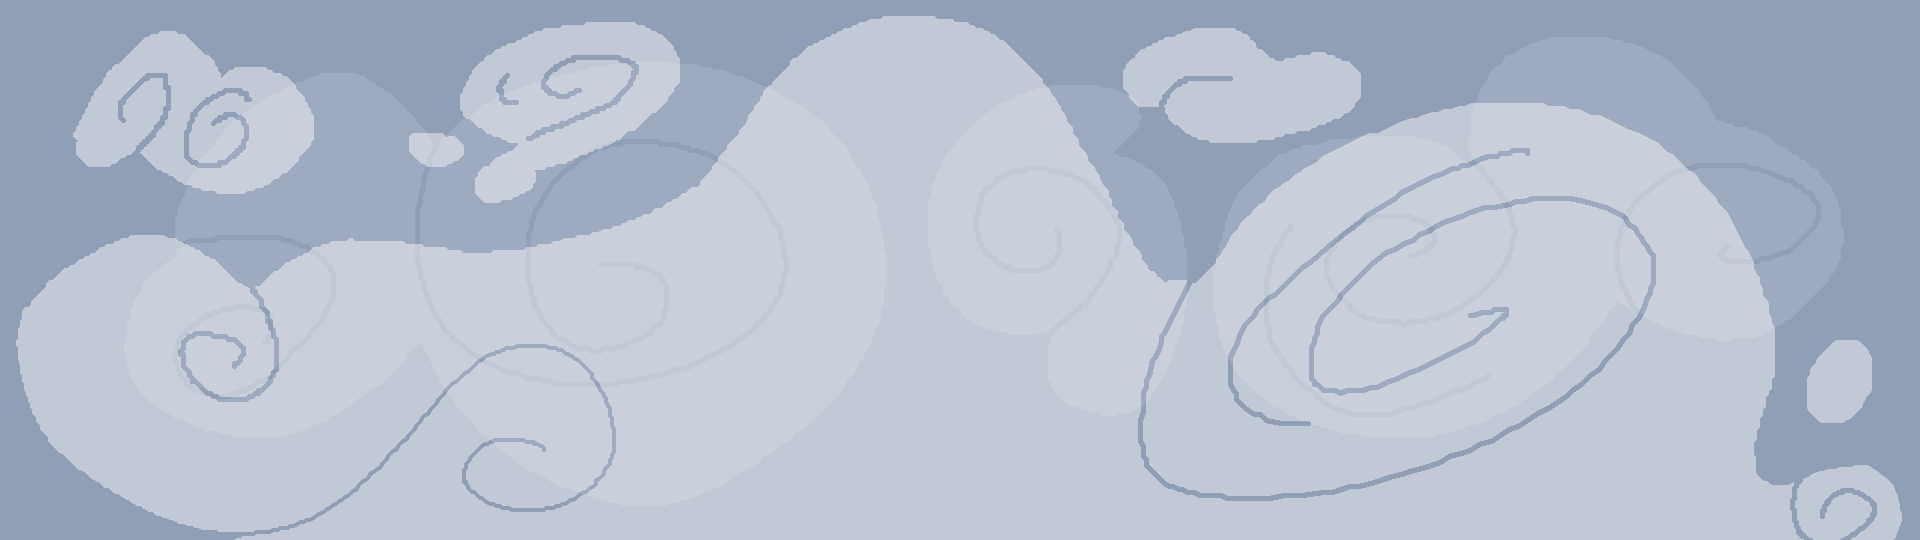
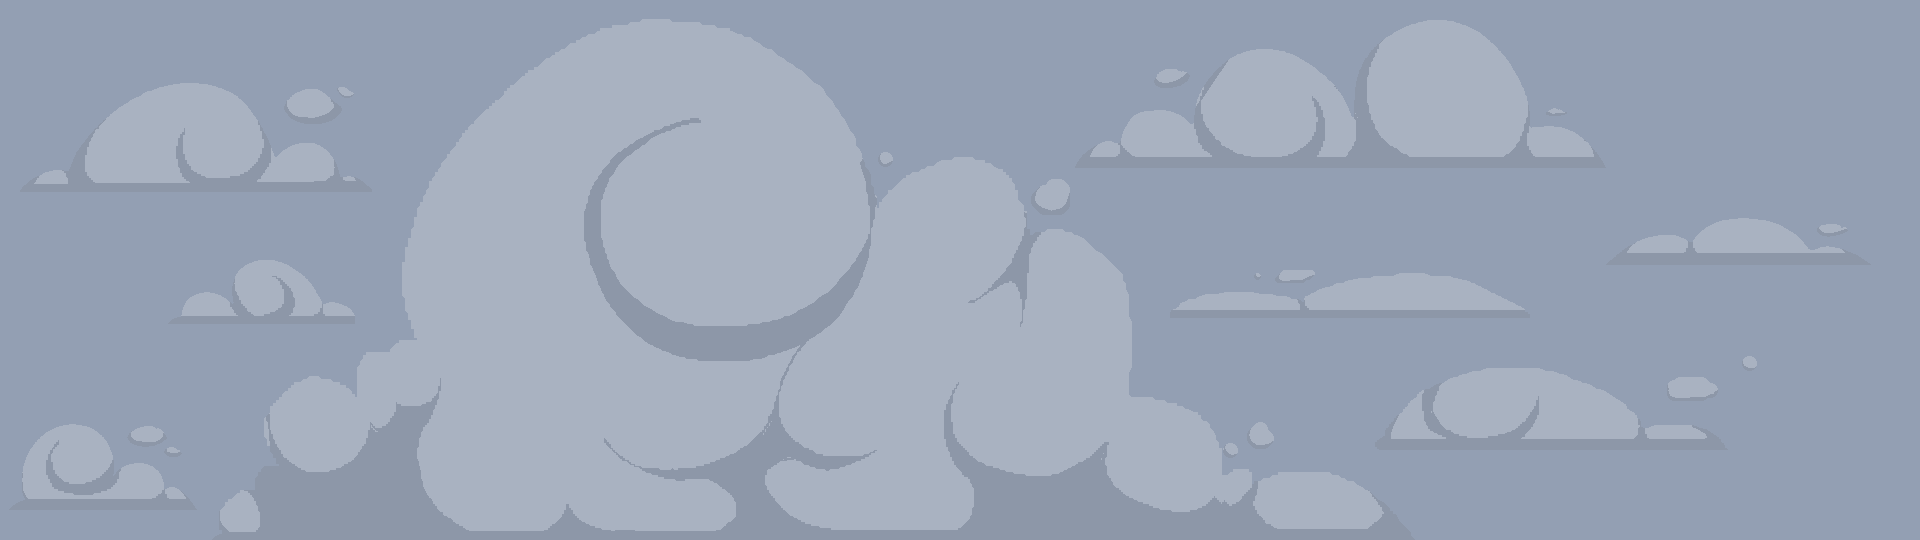
adding city background

diff --git a/src/scenes/Play1.js b/src/scenes/Play1.js
@@ -5,9 +5,12 @@ class Play1 extends Phaser.Scene {
 
     preload(){
         //load images
-        this.load.spritesheet('runner', './assets/runsheet.png', {frameWidth: 32, frameHeight: 48, startFrame: 0});
+        this.load.spritesheet('runner', './assets/run_boy.png', {frameWidth: 32, frameHeight: 48, startFrame: 0});
         this.load.image('dirt', './assets/dirt_tile.png');
         this.load.image('background', './assets/first.png');
+        this.load.image('city1', './assets/city1.png');
+        this.load.image('city2', './assets/city2.png');
+        this.load.image('city3', './assets/city3.png');
     }
 
     create(){
@@ -21,6 +24,9 @@ class Play1 extends Phaser.Scene {
 
         //tile sprite
         this.background = this.add.tileSprite(0, 0, 960, 540, 'background').setOrigin(0, 0);
+        this.third = this.add.tileSprite(0, 0, 960, 540, 'city3').setOrigin(0, 0);
+        this.second = this.add.tileSprite(0, 0, 960, 540, 'city2').setOrigin(0, 0);
+        this.first = this.add.tileSprite(0, 0, 960, 540, 'city1').setOrigin(0, 0);
 
         // make ground tiles group
         this.ground = this.add.group();
@@ -45,7 +51,7 @@ class Play1 extends Phaser.Scene {
                 start: 0,
                 end: 3,
             }),
-            frameRate: 20,
+            frameRate: 10,
             repeat: -1
         });
         this.anims.create({
@@ -76,7 +82,10 @@ class Play1 extends Phaser.Scene {
     }
 
     update(){
-        this.background.tilePositionX -= 0.5;
+        this.background.tilePositionX += 0.1;
+        this.third.tilePositionX += 0.2;
+        this.second.tilePositionX += 0.25;
+        this.first.tilePositionX += 0.3;
         this.groundScroll.tilePositionX += 3;
 
         // check keyboard input

diff --git a/src/scenes/Menu.js b/src/scenes/Menu.js
@@ -5,7 +5,7 @@ class Menu extends Phaser.Scene {
 
     preload(){
         //load images
-        this.load.image('clouds', './assets/tile_menu.png');
+        this.load.image('clouds', './assets/first.png');
         this.load.image('city', './assets/tile_menu2.png');
         this.load.image('hill', './assets/title1.png');
         
